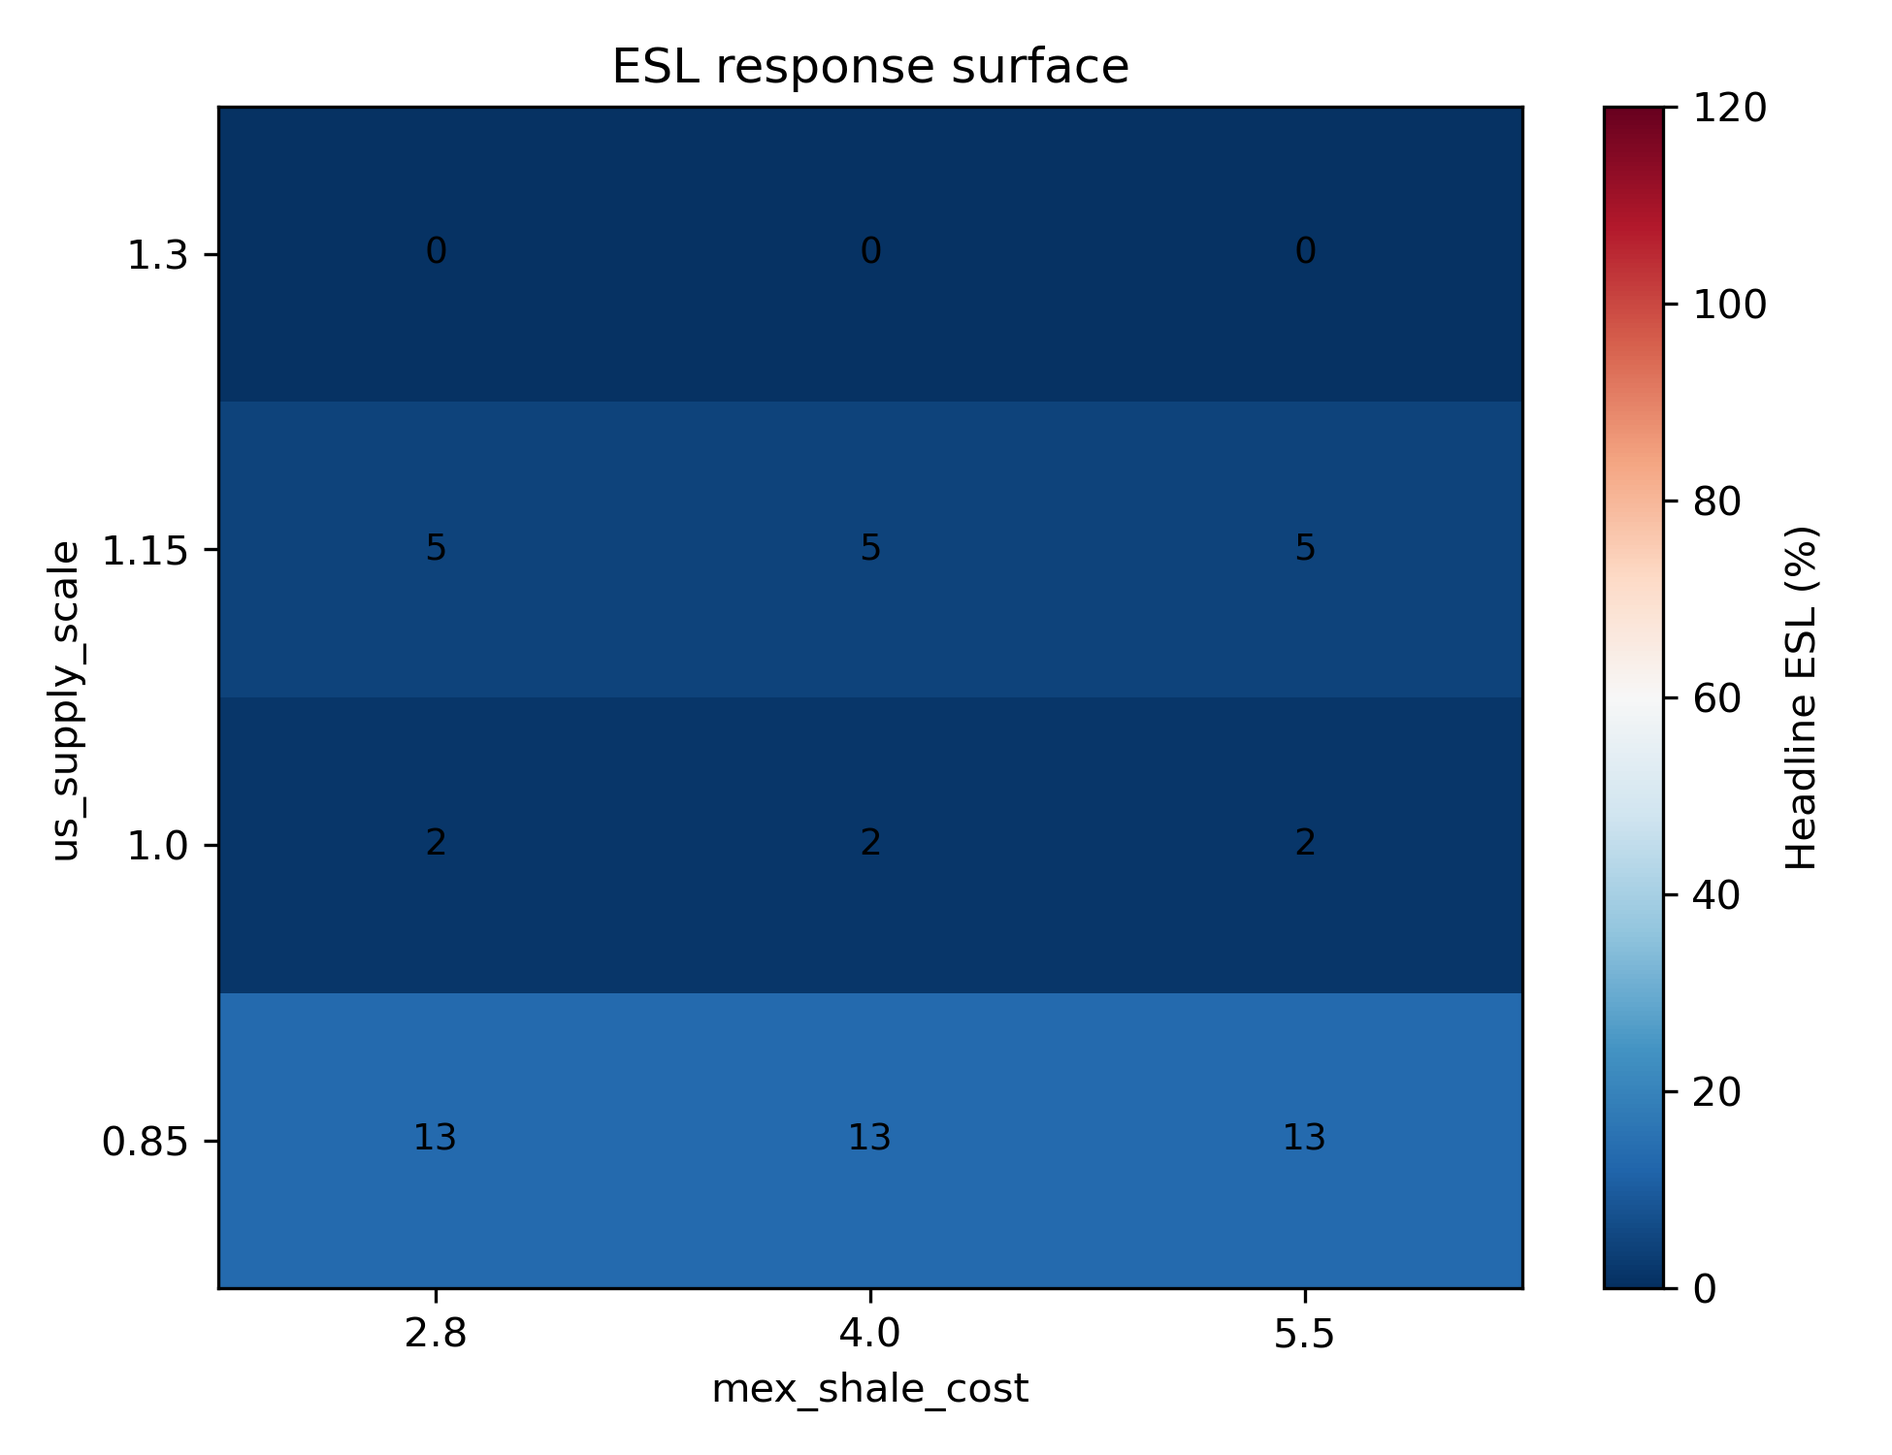
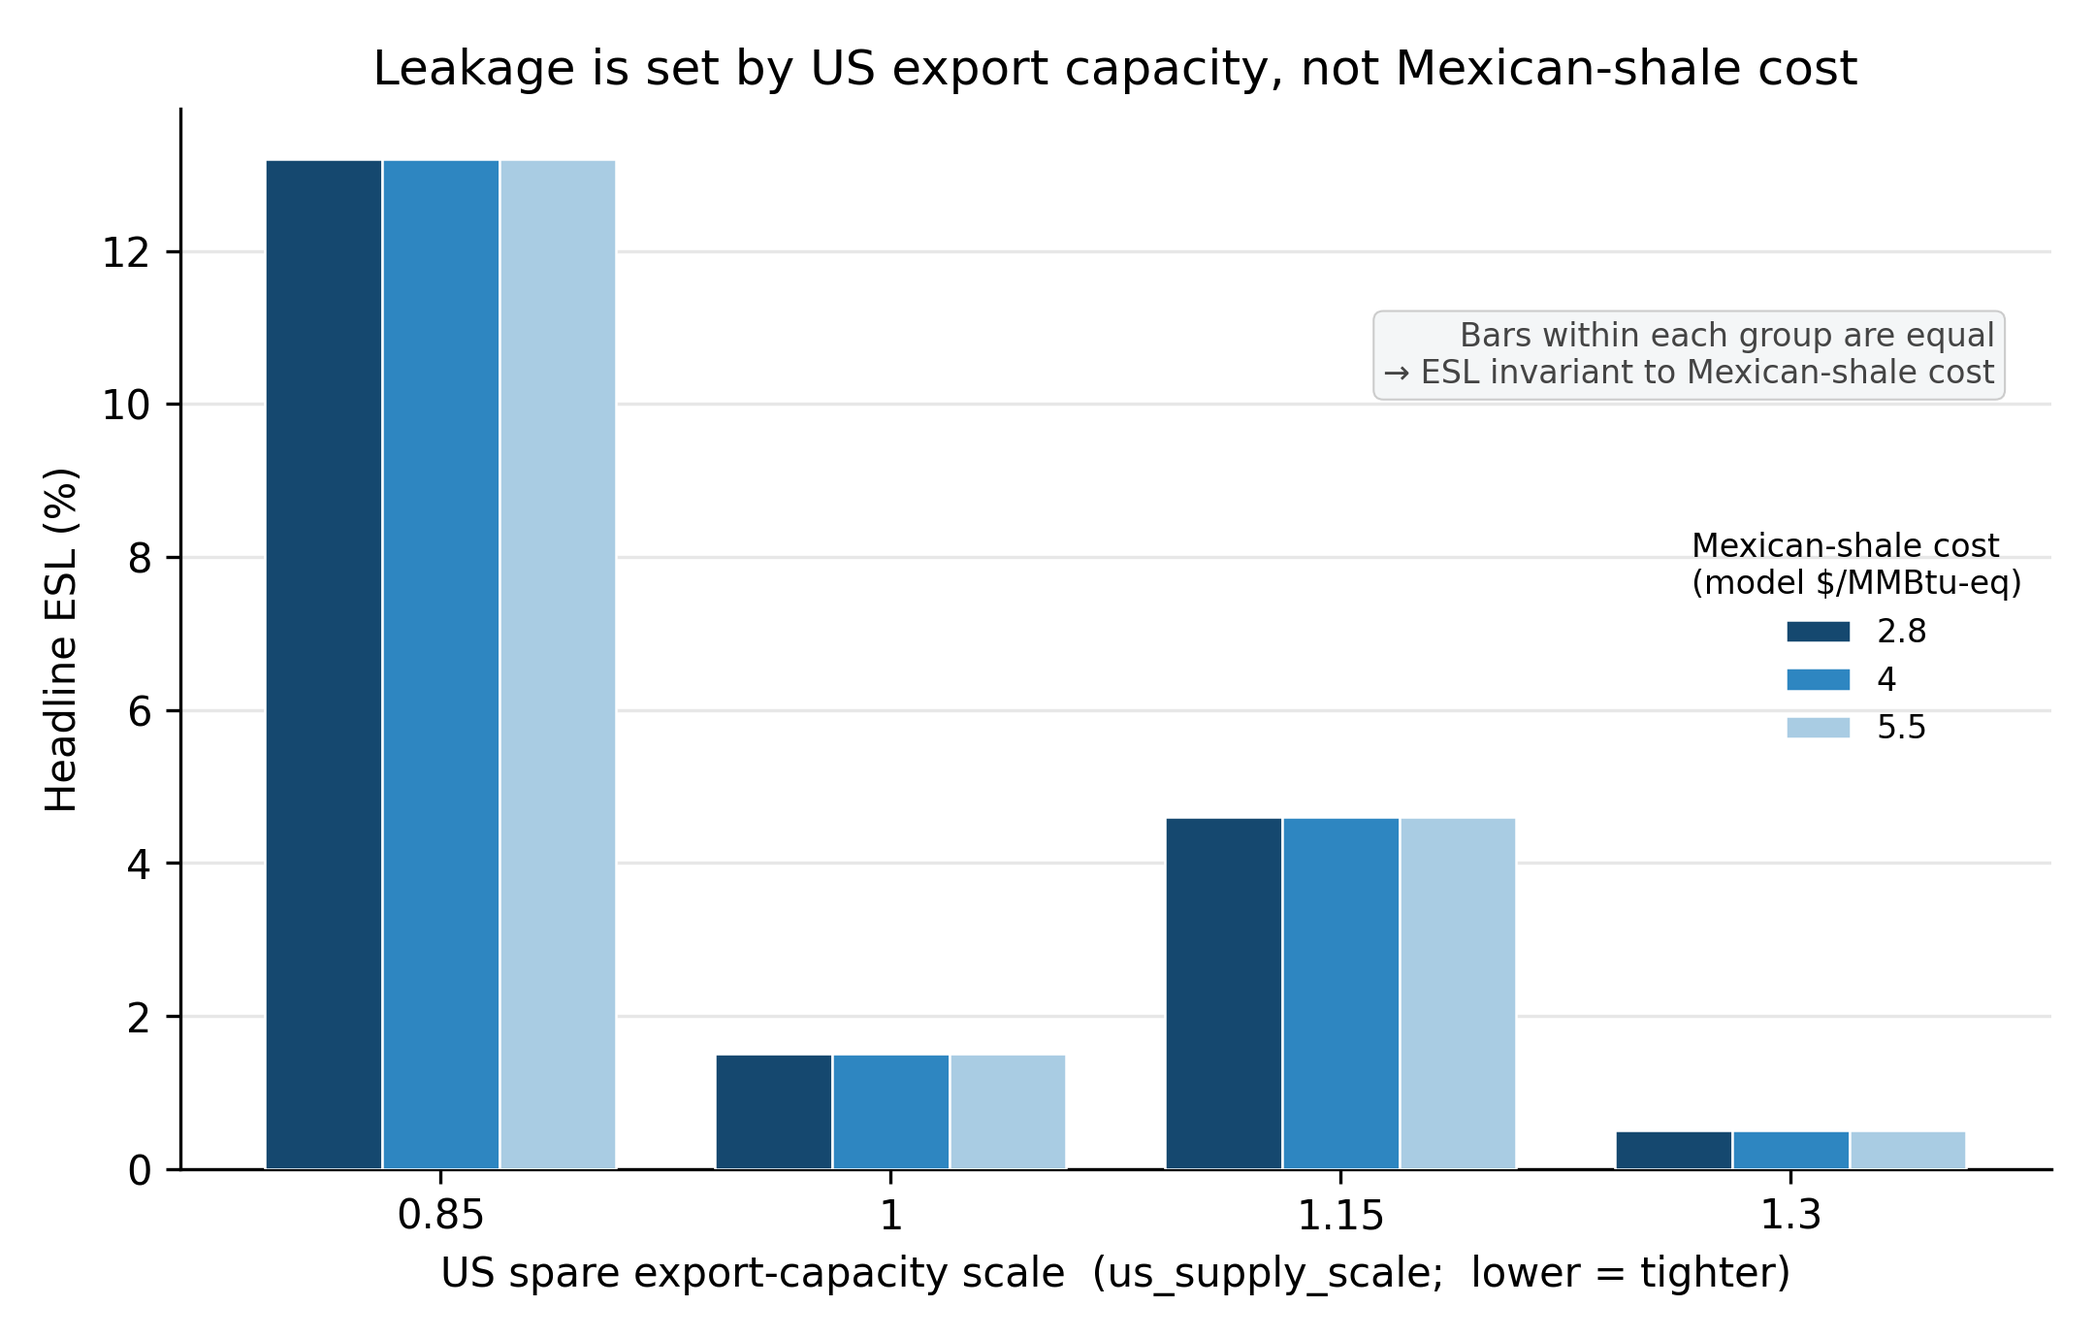
update

diff --git a/supplementary_information.tex b/supplementary_information.tex
@@ -5,8 +5,8 @@
 %%
 %%  Standalone LaTeX (compile separately, or \input into the main file).
 %%  Uses the same sn-bibliography.bib. Figure paths point at outputs/figures.
-%%  Fill the two [ ] placeholders (repo URL) before submission, and confirm
-%%  every table value against the final locked-model run.
+%%  Repo URL + Zenodo DOI filled in (Data and code availability). Confirm
+%%  every table value against the final locked-model run before submission.
 %% ====================================================================
 \documentclass[11pt]{article}
 \usepackage[utf8]{inputenc}
@@ -39,6 +39,26 @@
 \renewcommand{\thetable}{S\arabic{table}}
 \renewcommand{\theequation}{S\arabic{equation}}
 \renewcommand{\thesection}{S\arabic{section}}
+
+% Widen the ToC number boxes so two-digit labels (S10-S12, S11.1) do not
+% collide with the section titles.
+\makeatletter
+\renewcommand*\l@section[2]{%
+  \ifnum \c@tocdepth >\z@
+    \addpenalty\@secpenalty
+    \addvspace{1.0em \@plus\p@}%
+    \setlength\@tempdima{2.8em}% was 1.5em
+    \begingroup
+      \parindent \z@ \rightskip \@pnumwidth
+      \parfillskip -\@pnumwidth
+      \leavevmode \bfseries
+      \advance\leftskip\@tempdima
+      \hskip -\leftskip
+      #1\nobreak\hfil \nobreak\hb@xt@\@pnumwidth{\hss #2}\par
+    \endgroup
+  \fi}
+\renewcommand*\l@subsection{\@dottedtocline{2}{2.8em}{3.4em}}
+\makeatother
 
 \title{\textbf{Supplementary Information}\\[4pt]
 Energy sovereignty leakage: gas import substitution could relocate global
@@ -389,9 +409,14 @@ premium falls on Mexico rather than altering the global leak.
 
 \begin{figure}[H]\centering
 \includegraphics[width=0.7\linewidth]{outputs/figures/Scenario_heatmap.png}
-\caption{ESL response surface across US spare export capacity
-(\texttt{us\_supply\_scale}) and the cost of Mexican shale. Leakage rises with
-US capacity and is invariant to Mexican-shale cost.}\label{fig:heatmap}
+\caption{Headline ESL across US spare export capacity
+(\texttt{us\_supply\_scale}) and the cost of Mexican shale, shown as grouped
+bars. Within each capacity group the three Mexican-shale-cost bars are
+identical, so leakage is invariant to Mexican-shale cost; across groups leakage
+rises as US spare capacity \emph{tightens} (lower \texttt{us\_supply\_scale}).
+The non-monotonic step at the central scale reflects the discrete,
+market-by-market tipping of the least-cost switch that makes the
+above-threshold magnitude conditional.}\label{fig:heatmap}
 \end{figure}
 
 % ---------------------------------------------------------------
@@ -757,7 +782,9 @@ All input data derive from public sources: the Energy Institute Statistical
 Review of World Energy \citep{EI2024}, US EIA, IEA \citep{iea_methane_2024},
 and the EIA/ARI world shale assessment \citep{EIA_ARI2013}. Model code
 (PyPSA), scenario definitions, the ESL and threshold drivers, and all
-plotting scripts are available at [REPOSITORY URL TO ADD]. Calibration sources
+plotting scripts are available at
+\texttt{https://github.com/kerdan85/GlobalGasModel} and archived at
+\texttt{https://doi.org/10.5281/zenodo.24039785}. Calibration sources
 and assumptions are documented in \texttt{CALIBRATION\_NOTES.md}.
 
 \bibliographystyle{plainnat}

diff --git a/src/validation.py b/src/validation.py
@@ -137,19 +137,47 @@ def validate(make_figure=True):
           f"(China excluded; see SI)")
 
     if make_figure and len(dfq):
-        df = dfq
-        fig, ax = plt.subplots(figsize=(6, 6))
+        df = dfq.copy()
+        # tidy metric names for labels
+        PRETTY = {"US_production": "US production", "US_LNG_exports": "US LNG exports",
+                  "US_LNG_exp": "US LNG exports", "Norway_exports": "Norway exports",
+                  "Norway_exp": "Norway exports", "US_Mexico_pipe": "US→Mexico pipe",
+                  "USMexico_pipe": "US→Mexico pipe", "US_to_Mexico": "US→Mexico pipe"}
+        def _pretty(m):
+            return PRETTY.get(m, str(m).replace("_", " "))
+
+        fig, ax = plt.subplots(figsize=(7, 7))
         ax.scatter(df["Observed"], df["Modelled"], c="#1f6fb2", s=55,
                    edgecolor="black", linewidth=0.5, zorder=3)
         lim = max(df["Observed"].max(), df["Modelled"].max()) * 1.1
         ax.plot([0, lim], [0, lim], ls="--", color="grey", zorder=1)
-        for _, r in df.iterrows():
-            ax.annotate(f"{r['Metric'][:10]} {int(r['Year'])}",
-                        (r["Observed"], r["Modelled"]), fontsize=6,
-                        xytext=(4, 4), textcoords="offset points")
+
+        # Well-separated high-volume points: label directly.
+        hi = df[df["Observed"] > 300]
+        for _, r in hi.iterrows():
+            ax.annotate(f"{_pretty(r['Metric'])} {int(r['Year'])}",
+                        (r["Observed"], r["Modelled"]), fontsize=8,
+                        xytext=(8, -4), textcoords="offset points",
+                        va="center", ha="left")
+
+        # Crowded low-volume cluster: fan labels into a staggered column
+        # in the empty lower-right triangle, each with a thin leader line.
+        lo = df[df["Observed"] <= 300].sort_values("Modelled", ascending=False)
+        nlo = len(lo)
+        if nlo:
+            y_top, y_bot = 0.52 * lim, 0.06 * lim
+            xlab = 0.40 * lim
+            ys = [y_top - (y_top - y_bot) * k / max(nlo - 1, 1) for k in range(nlo)]
+            for (_, r), ylab in zip(lo.iterrows(), ys):
+                ax.annotate(f"{_pretty(r['Metric'])} {int(r['Year'])}",
+                            xy=(r["Observed"], r["Modelled"]),
+                            xytext=(xlab, ylab), textcoords="data",
+                            fontsize=7.5, va="center", ha="left",
+                            arrowprops=dict(arrowstyle="-", lw=0.4, color="0.55"))
+
         ax.set_xlim(0, lim); ax.set_ylim(0, lim)
         ax.set_xlabel("Observed (BCM)"); ax.set_ylabel("Modelled (BCM)")
-        ax.set_title(f"Out-of-sample back-cast (MAE {mape:.1f}%)")
+        ax.set_title(f"Out-of-sample back-cast (MAE {mape:.1f}%; China excluded)")
         ax.grid(alpha=0.3)
         plt.tight_layout()
         plt.savefig("outputs/figures/Validation_backcast.png", dpi=300)

diff --git a/src/scenario_matrix.py b/src/scenario_matrix.py
@@ -83,18 +83,37 @@ def _plot_1d(out, axes):
 
 
 def _plot_2d(grid, xs, ys, axis_x, axis_y):
-    fig, ax = plt.subplots(figsize=(6.5, 5))
-    im = ax.imshow(grid, origin="lower", aspect="auto", cmap="RdBu_r",
-                   vmin=0, vmax=120)
-    ax.set_xticks(range(len(xs))); ax.set_xticklabels(xs)
-    ax.set_yticks(range(len(ys))); ax.set_yticklabels(ys)
-    ax.set_xlabel(axis_x); ax.set_ylabel(axis_y)
-    for j in range(grid.shape[0]):
-        for i in range(grid.shape[1]):
-            ax.text(i, j, f"{grid[j, i]:.0f}", ha="center", va="center",
-                    color="black", fontsize=9)
-    fig.colorbar(im, ax=ax, label="Headline ESL (%)")
-    ax.set_title("ESL response surface")
+    # Grouped bars: ESL vs the capacity axis (ys), one bar per cost axis (xs).
+    # Equal bars within a group make the invariance to the cost axis visible,
+    # while group heights show the capacity dependence -- clearer than a
+    # 3-column heatmap whose identical columns read as empty.
+    _PRETTY = {"us_supply_scale": "US spare export-capacity scale",
+               "mex_shale_cost": "Mexican-shale cost (model \\$/MMBtu-eq)"}
+    nx = len(xs)
+    cols = ["#15486f", "#2e86c1", "#a9cce3", "#5dade2", "#d4e6f1"]
+    fig, ax = plt.subplots(figsize=(7.2, 4.6))
+    x = np.arange(len(ys)); w = 0.8 / max(nx, 1)
+    for i, xv in enumerate(xs):
+        vals = [grid[j, i] for j in range(len(ys))]
+        ax.bar(x + (i - (nx - 1) / 2.0) * w, vals, w,
+               label=f"{xv:g}", color=cols[i % len(cols)],
+               edgecolor="white", linewidth=0.6, zorder=3)
+    ax.set_xticks(x); ax.set_xticklabels([f"{v:g}" for v in ys])
+    ax.set_xlabel(_PRETTY.get(axis_y, axis_y) + "  (lower = tighter)")
+    ax.set_ylabel("Headline ESL (%)")
+    ax.legend(title=_PRETTY.get(axis_x, axis_x), fontsize=8,
+              title_fontsize=8, frameon=False)
+    for s in ("top", "right"):
+        ax.spines[s].set_visible(False)
+    ax.grid(axis="y", alpha=0.3, zorder=0)
+    if nx > 1:
+        ax.annotate("Bars within each group are equal\n\u2192 ESL invariant "
+                    "to " + _PRETTY.get(axis_x, axis_x).split(" (")[0],
+                    xy=(0.97, 0.82), xycoords="axes fraction", ha="right",
+                    va="top", fontsize=8, color="#444",
+                    bbox=dict(boxstyle="round,pad=0.3", fc="#f4f6f7",
+                              ec="#ccc", lw=0.5))
+    ax.set_title("Leakage is set by US export capacity, not Mexican-shale cost")
     plt.tight_layout()
     plt.savefig("outputs/figures/Scenario_heatmap.png", dpi=300)
     plt.close(fig)

diff --git a/manuscript_nature_energy.tex b/manuscript_nature_energy.tex
@@ -720,8 +720,9 @@ International Energy Agency; IEA Global Methane Tracker) and are provided in
 the repository. Calibration sources are documented in
 \texttt{CALIBRATION\_NOTES.md}.
 \bmhead{Code availability}
-The PyPSA model, scenario definitions, ESL drivers, and plotting code (Python
-and R) are available at [REPOSITORY URL TO ADD].
+The PyPSA model, scenario definitions, ESL drivers, and plotting code are
+available at \texttt{https://github.com/kerdan85/GlobalGasModel} and archived at
+\texttt{https://doi.org/10.5281/zenodo.24039785}.
 \bmhead{Author contributions}
 I.G.K. designed and implemented the model and conducted the analysis and
 writing.

diff --git a/cover_letter.md b/cover_letter.md
@@ -1,4 +1,4 @@
-# Cover letter — draft
+# Cover letter
 
 **To:** The Editors, *Nature Energy*
 **Re:** Submission of an Article for consideration
@@ -7,35 +7,30 @@
 
 Dear Editors,
 
-We are pleased to submit our manuscript, **"Energy sovereignty leakage: gas import substitution could relocate global emissions to mid-century,"** for consideration as an Article in *Nature Energy*.
+I am pleased to submit my manuscript, **"Energy sovereignty leakage: gas import substitution could relocate global emissions to mid-century,"** for consideration as an Article in *Nature Energy*.
 
-Reducing dependence on a dominant foreign gas supplier — energy sovereignty — has become an explicit policy goal across the world, from Mexico's drive to replace United States pipeline imports with domestic shale to Europe's retreat from Russian gas. The premise, almost always implicit, is that cutting imports reduces both strategic dependence and global gas use, and is therefore good for the climate. Our work shows that this territorial premise can be exactly wrong, and identifies the precise condition under which it fails.
+Reducing dependence on a dominant foreign gas supplier — energy sovereignty — has become an explicit policy goal across the world, from Mexico's drive to replace United States pipeline imports with domestic shale to Europe's retreat from Russian gas. The premise, almost always implicit, is that cutting imports reduces both strategic dependence and global gas use, and is therefore good for the climate. My work shows that this territorial premise can be exactly wrong, and identifies the precise condition under which it fails.
 
-Using a calibrated 19-region global gas-trade model, we introduce and quantify **Energy Sovereignty Leakage (ESL)** — the fraction of a sovereignty-driven import cut that reappears as gas consumption elsewhere. Our central findings are:
+Using a calibrated 19-region global gas-trade model, I introduce and quantify **Energy Sovereignty Leakage (ESL)** — the fraction of a sovereignty-driven import cut that reappears as gas consumption elsewhere. The central findings are:
 
 1. **On today's economics, sovereignty substitution is climate-benign.** The gas Mexico stops importing is largely left unproduced; global gas use genuinely falls (ESL ≲ 2%).
 
 2. **Leakage is a threshold phenomenon, not a fixed quantity.** It switches on only once delivered US LNG is driven below the price of the Asian coal it would displace — and two realistic, policy-driven forces push it across that wall: a security premium for reliable US supply, and a carbon price on coal.
 
-3. **The instruments meant to advance the transition are what unlock the leak, and the climate sign is methane-contingent.** Because a carbon price charges coal combustion but leaves the upstream methane and LNG-chain emissions of the competing gas unpriced, it can convert a security-motivated gas policy into a net source of warming — a mechanism in the lineage of the green paradox, here driven by *asymmetric* rather than anticipated pricing. Whether relocation helps or harms the climate turns on one external parameter: by our lifecycle assessment, shale-LNG is marginally cleaner than coal at central methane but becomes dirtier once upstream methane exceeds ~3% on a 20-year horizon — the range that measurement increasingly supports.
+3. **The instruments meant to advance the transition are what unlock the leak, and the climate sign is methane-contingent.** Because a carbon price charges coal combustion but leaves the upstream methane and LNG-chain emissions of the competing gas unpriced, it can convert a security-motivated gas policy into a net source of warming — a mechanism in the lineage of the green paradox, here driven by *asymmetric* rather than anticipated pricing. Whether relocation helps or harms the climate turns on one external parameter: by my lifecycle assessment, shale-LNG is marginally cleaner than coal at central methane but becomes dirtier once upstream methane exceeds ~3% on a 20-year horizon — the range that measurement increasingly supports.
 
-A methodological contribution underpins these results: we couple the trade optimisation to a process-level lifecycle inventory (ecoinvent/Brightway) at every solved year, so emissions are resolved region-by-region on a full lifecycle basis rather than by fixed factors.
+A methodological contribution underpins these results: I couple the trade optimisation to a process-level lifecycle inventory (ecoinvent/Brightway) at every solved year, so emissions are resolved region-by-region on a full lifecycle basis rather than by fixed factors.
 
-We believe this is timely and broadly significant for the *Nature Energy* readership. It connects two literatures usually kept apart — the geopolitics of energy security and the climate accounting of gas — and delivers a concrete, policy-actionable conclusion: import-substitution and carbon-pricing policies must be paired with lifecycle-complete pricing or supply-side conditions, or they will relocate emissions rather than reduce them. The Mexico–US case is the sharpest current instance, but the mechanism generalises to any sovereignty policy that displaces a swing exporter.
+I believe this is timely and broadly significant for the *Nature Energy* readership. It connects two literatures usually kept apart — the geopolitics of energy security and the climate accounting of gas — and delivers a concrete, policy-actionable conclusion: import-substitution and carbon-pricing policies must be paired with lifecycle-complete pricing or supply-side conditions, or they will relocate emissions rather than reduce them. The Mexico–US case is the sharpest current instance, but the mechanism generalises to any sovereignty policy that displaces a swing exporter.
 
-We are candid about the model's scope: it establishes the *threshold* for leakage robustly, while the above-threshold *magnitude* is reported as a conditional range rather than a single point estimate, and we discuss the framework extension that would resolve it. All data are public and the full model and analysis code are openly available.
+I am candid about the model's scope: it establishes the *threshold* for leakage robustly, while the above-threshold *magnitude* is reported as a conditional range rather than a single point estimate, and I discuss the framework extension that would resolve it. All data are public, and the full model and analysis code are openly available (https://github.com/kerdan85/GlobalGasModel; archived at https://doi.org/10.5281/zenodo.24039785).
 
-The main text is approximately 3,000 words (excluding abstract, Methods, references and figure legends), with 7 main-text display items, 2 Extended Data figures, and Supplementary Information. It has not been published elsewhere and is not under consideration by another journal. We have no competing interests to declare.
+The main text is approximately 3,000 words (excluding abstract, Methods, references and figure legends), with 7 main-text display items, 2 Extended Data figures, and Supplementary Information. This manuscript is my sole-authored work. It has not been published elsewhere and is not under consideration by another journal. I have no competing interests to declare.
 
-We would be grateful for your consideration and look forward to your response.
+I would be grateful for your consideration and look forward to your response.
 
 Sincerely,
 
-Iván García Kerdan (corresponding author)
-Tecnológico de Monterrey, Mexico
+Iván García Kerdan
+Tecnológico de Monterrey, Mexico City, Mexico
 i.garciakerdan@tec.mx
-
-[co-authors, if any]
-
----
-*Notes before sending: fill the word count; confirm the author list; if you are pitching a presubmission enquiry instead, cut to the first three paragraphs plus findings 1–3.*
